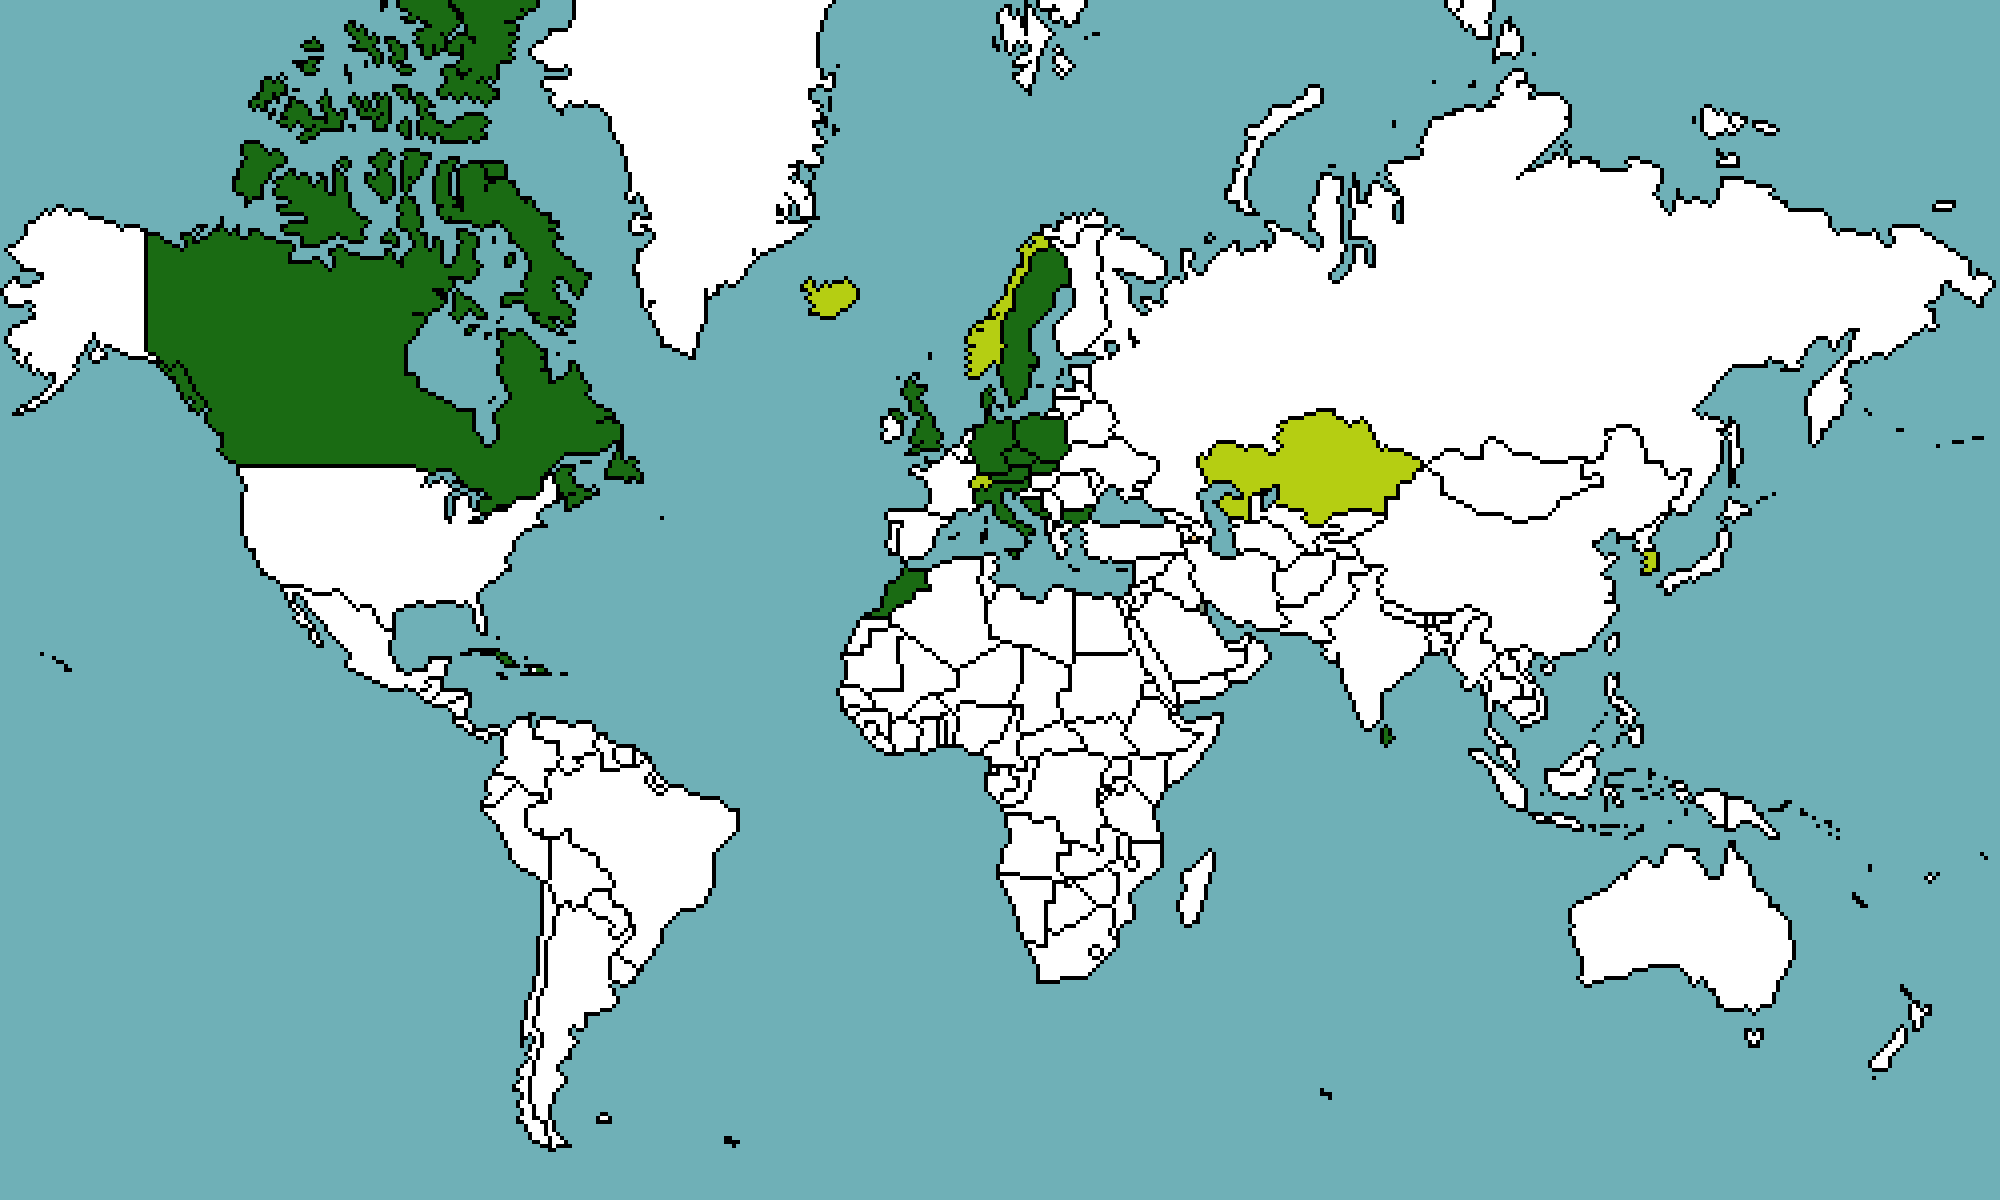
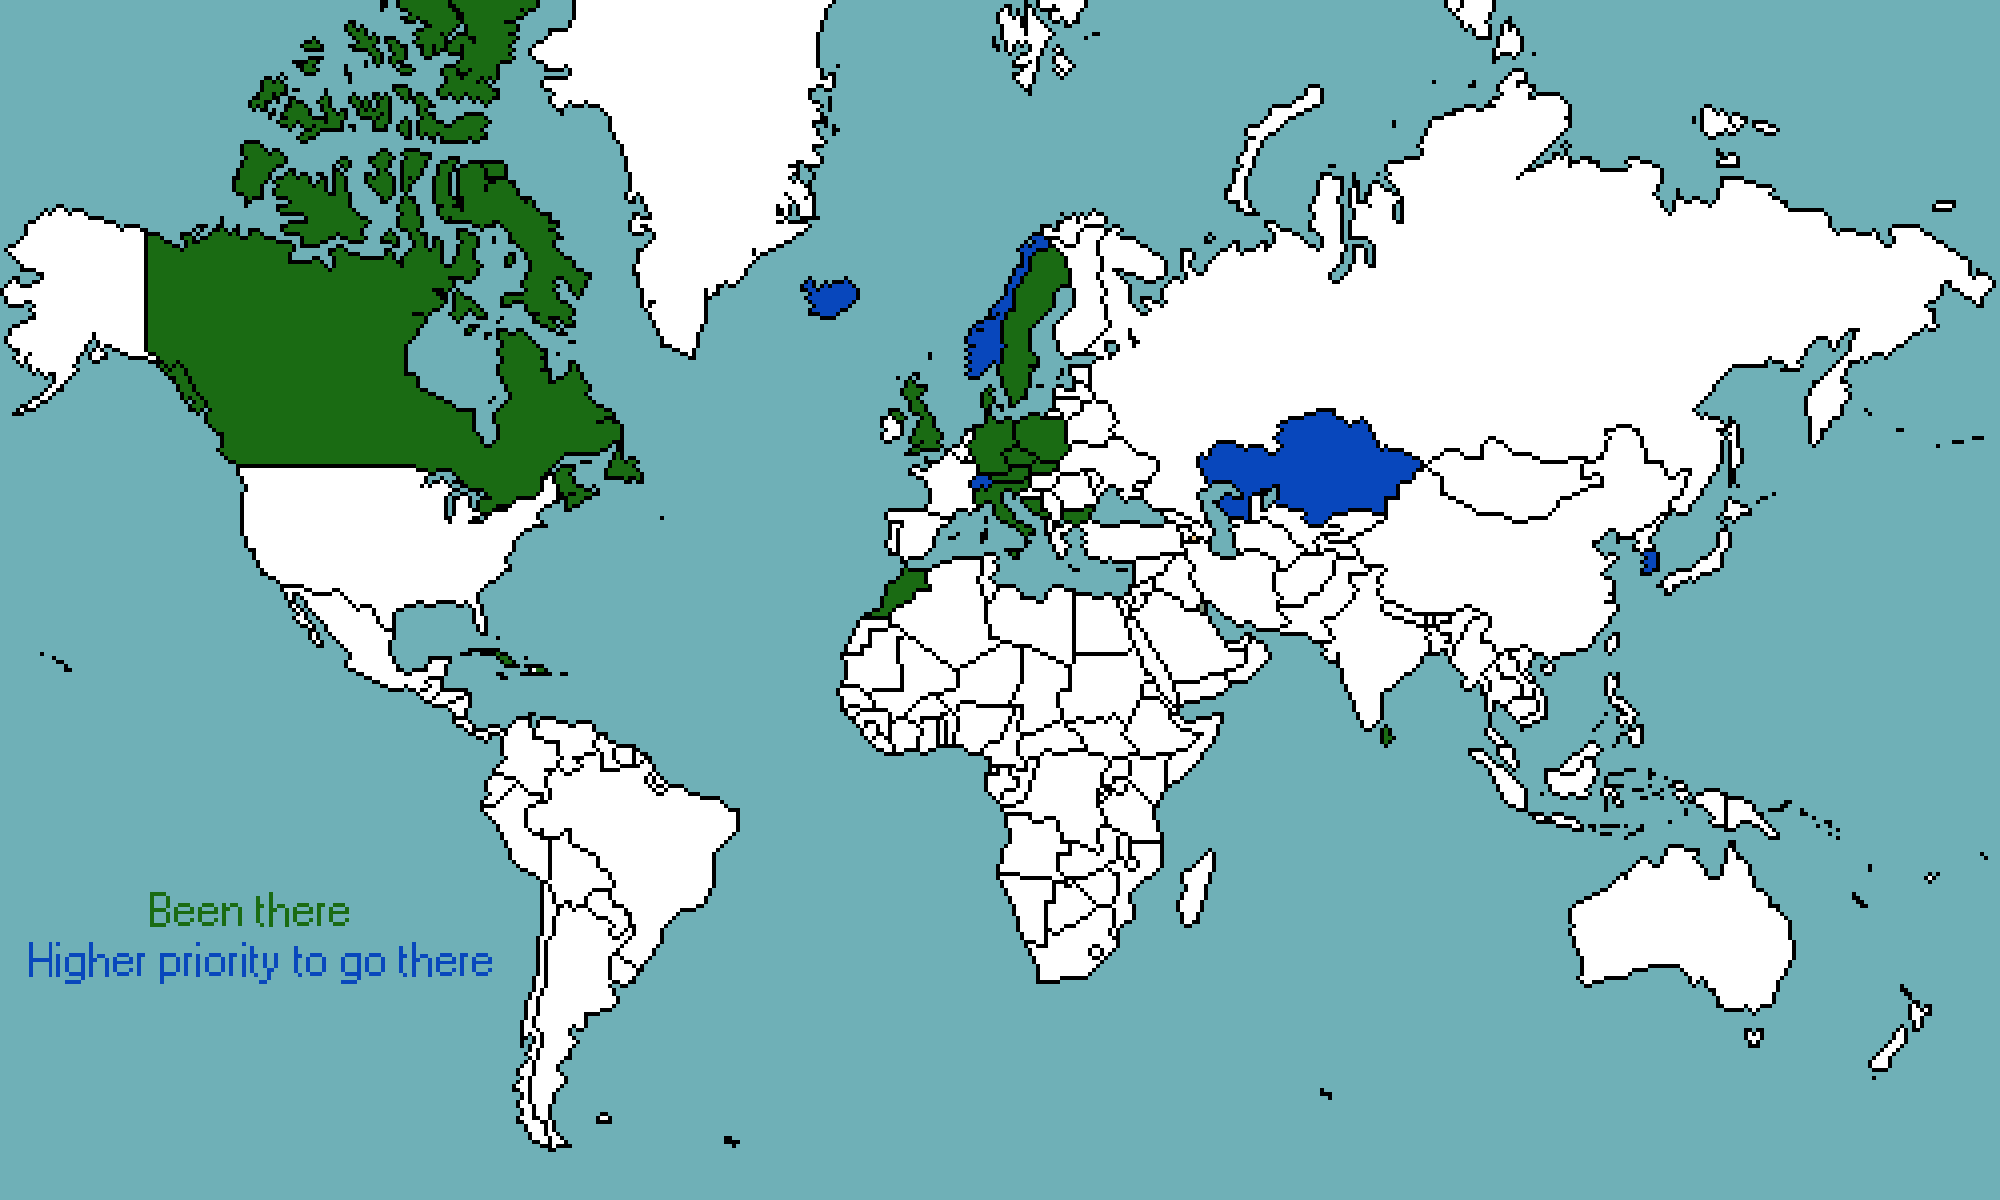
added a map of visited countries

diff --git a/countries.html b/countries.html
@@ -1,0 +1,69 @@
+<!DOCTYPE html>
+<html lang="en">
+<head>
+	<meta charset="UTF-8">
+	<title>Welcome</title>
+	<link rel="stylesheet" href="countries.css">
+	<meta charset="UTF-8">
+	<meta name="viewport" content="width=device-width, initial-scale=1.0">
+	<script src="button_logic.js"></script>
+</head>
+<body>
+<div class="windows-95-window" id="window">
+	<div class="title-bar">
+		<div class="window-title">World map</div>
+		<div class="window-buttons">
+			<button class="window-button-close"
+			        onclick="document.getElementById('window').hidden = true">
+				X
+			</button>
+		</div>
+	</div>
+	<img src="map1.png" alt="World map">
+</div>
+
+	<!-- START MENU -->
+	<div class="start-menu" id="start-menu">
+		<div class="blue-stripe">
+			<p class="last-name">Kousal</p>
+			<p class="first-name">Vladimír</p>
+		</div>
+		<div class="welcome-window-start">
+			<button onclick="window.location.href='index.html'">
+				<img src="welcome_icon.png">
+				<p> Welcome window</p>
+			</button>
+		</div>
+		<br> <br>
+
+		<div class="countries-start">
+			<button onclick="window.location.href='countries.html'">
+				<img src="globe_icon.png">
+				<p> World map</p>
+			</button>
+		</div>
+
+		<script>
+			let startMenu = document.getElementById("start-menu");
+			startMenu.hidden = true;
+		</script>
+	</div>
+
+
+	<div class="bottom-panel">
+		<button class="start-button" onclick="toggleStartMenu()">Start</button>
+		<div class="time-container" id="time-container">4:20 PM</div>
+		<script src="current_time.js"></script>
+	</div>
+
+	<!-- Google tag (gtag.js) -->
+	<script async src="https://www.googletagmanager.com/gtag/js?id=G-Q7QZS1W0VF"></script>
+	<script>
+		window.dataLayer = window.dataLayer || [];
+		function gtag(){dataLayer.push(arguments);}
+		gtag('js', new Date());
+
+		gtag('config', 'G-Q7QZS1W0VF');
+	</script>
+</body>
+</html>

diff --git a/index.html b/index.html
@@ -38,11 +38,20 @@
 				<p class="first-name">Vladimír</p>
 			</div>
 			<div class="welcome-window-start">
-					<button onclick="onWelcomeMenuClick()">
-						<img src="welcome_icon.png">
-						<p>Welcome window</p>
-					</button>
+				<button onclick="onWelcomeMenuClick()">
+					<img src="welcome_icon.png">
+					<p> Welcome window</p>
+				</button>
 			</div>
+			<br> <br>
+
+			<div class="countries-start">
+				<button onclick="window.location.href='countries.html'">
+					<img src="globe_icon.png">
+					<p> World map</p>
+				</button>
+			</div>
+
 			<script>
 				let startMenu = document.getElementById("start-menu");
 				startMenu.hidden = true;

diff --git a/countries.css b/countries.css
@@ -75,17 +75,15 @@ body {
     position: absolute;
     top: 10px;
     left: 50%;
-    bottom: 10%;
+    height: auto;
     transform: translateX(-50%);
+    max-width: 1365px;
 }
 
 .windows-95-window img {
-    margin-left: 5%;
-    display: block;
-    max-height: 50%;
-    max-width: 90%;
+    width: 100%;
+    object-fit: cover;
 }
-
 
 .title-bar {
     background-color: #010082;
@@ -209,13 +207,6 @@ body {
     margin-left: 7%;
     height: auto;
     width: auto;
-}
-
-.content {
-    text-align: center;
-    align-items: center;
-    justify-content: center;
-    display: flex;
 }
 
 .countries-start {
